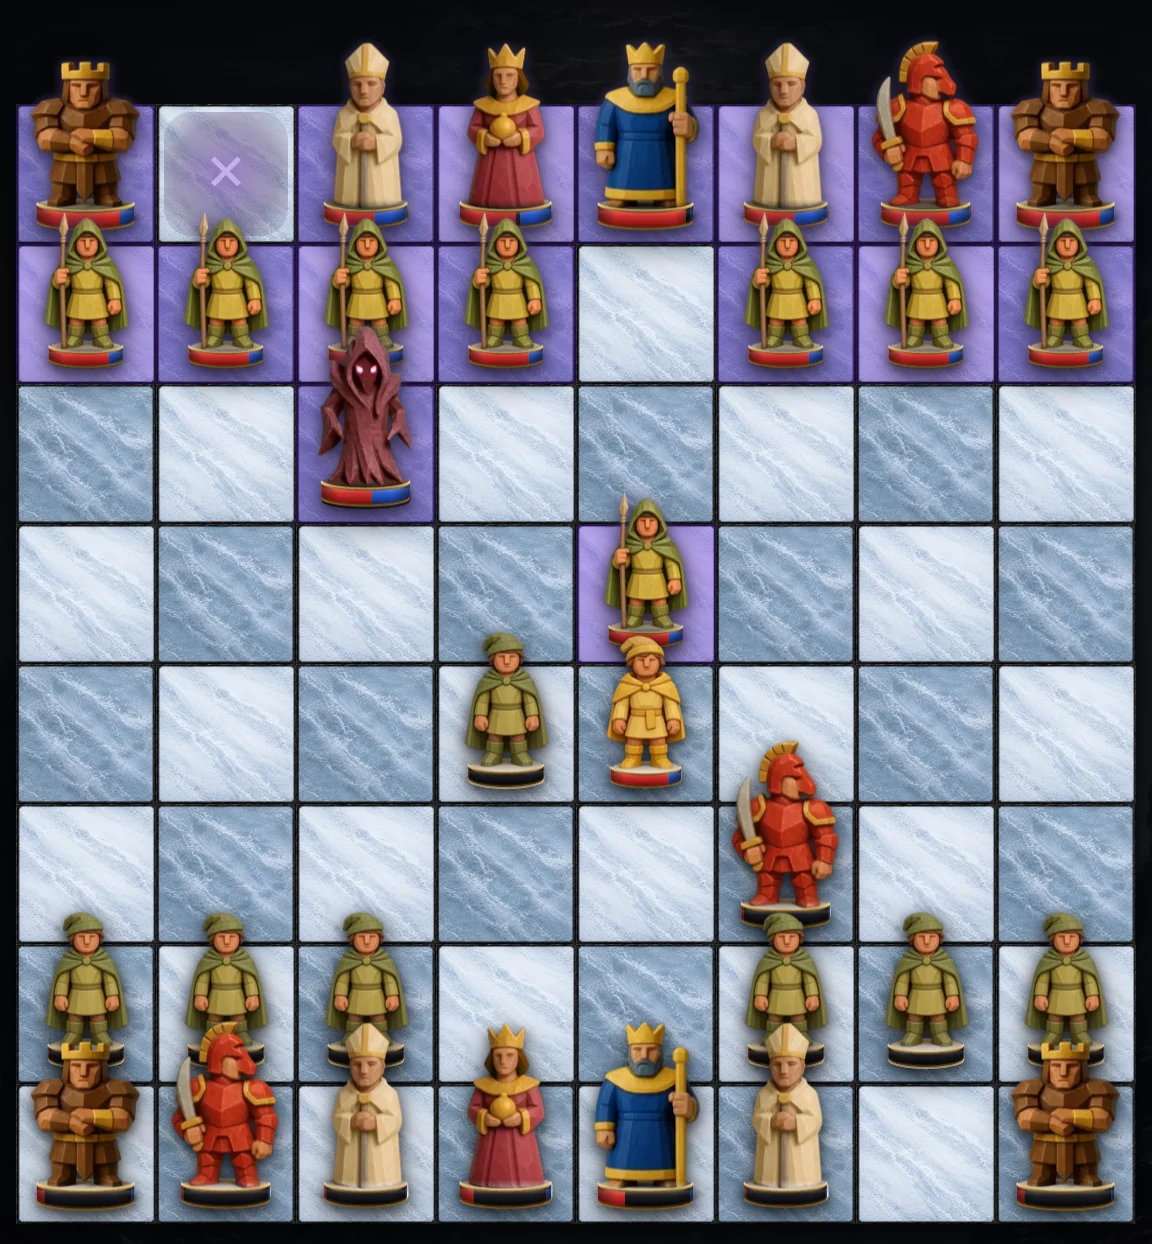
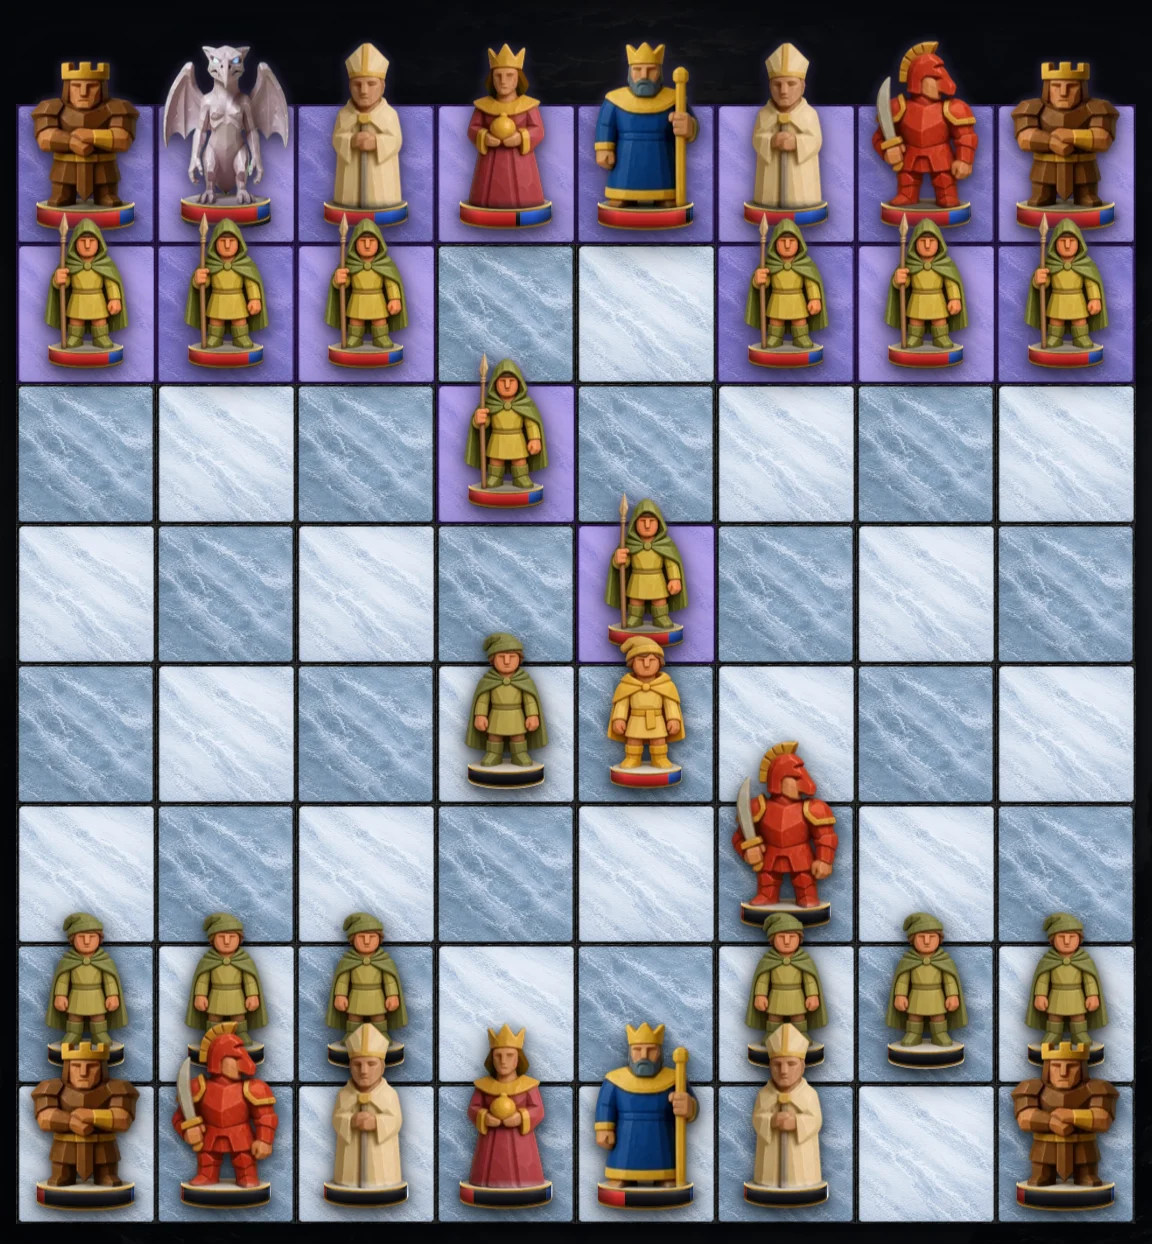
v1.91.0: Figuren-Umbau - 24 neue Figuren, 18 Buende ab Aufstellung, 14 Grossmeister mit Aura, 28 Bestien, Kampagne neu verteilt
Besitzerauftrag 6.10.: alle neuen Figuren freigegeben, in die Kapitel einbauen
(die meisten in Kapitel I und II, keine Bestie vor Kapitel III, der Drache
spaeter), saubere Zuege, Werte und Faehigkeiten, ausgeglichenes Grundspiel.

DIE ECHTEN URSACHEN, die dabei gefunden und behoben wurden:
- Die zehn Buende wirkten im Spiel nie: der Kern sucht ihre Figuren ueber
  charId, und weder das Heer noch makePiece setzten das Feld. Die Proben
  setzten es von Hand und blieben darum gruen. Jetzt traegt jede Figur ihre
  Kennung; Buende gelten je Seite und ueberleben das Pausieren.
- Gezeiten konnte fuer den Kapitaen nicht wirken (er zieht ueber sein Zugbild,
  der Durchbruch stand nur im alten slide-Weg).
- Die Seherin hatte fuer die KI weder Wert noch Familie.
- Das Zugbild las eine fehlende Reichweite als einen Schritt, der Kern als
  beliebig weit (Brandstifter, Eisenfaust).
- Meldungen und Figuren-Erfahrung kannten nur die zehn Arten der Standardreihe.
- Die Auren der Grossmeister standen in keinem Schirm.

WAS NEU IST: siehe CHANGELOG 1.91.0 und design/FIGUREN-UMBAU-2026-10-06.md -
24 Figuren, 5 Faehigkeiten (Almosen, Zins, Zehnt, Studium, Fallenkunde), 8
Buende, 13 Grossmeister und 5 Bestien, Kampagne mit 43 Figurenstationen,
Bestechpreise 800-1600, Wanderung alter Staende (figuren91).

GEMESSEN: npm test 31 Suiten / 2839 Pruefungen; Balance reif (74 Eintraege,
jede gegen jede) - nach dem Nachstellen von sechs Bestien, Gladiator und
[…]

Changed region(s): [[0.25, 0.1527, 0.5, 0.4582], [0.125, 0.0305, 0.2812, 0.2138]]

diff --git a/src/content/abilities.js b/src/content/abilities.js
@@ -83,7 +83,7 @@ export const ABILITIES = {
      Reihe und zahlen nach der Partie aus (meta/rewards.js) - das ist ihr
      Preis und ihr Reiz: Gold oder Kampfkraft, nicht beides. Der Fallensteller
      legt vor dem Gefecht eine Baerenfalle, ohne dass sie gekauft sein muss. */
-  almosen:              { id: "almosen",              icon: "◔", tag: "gold", once: false, live: true, nameDe: "Almosen",      nameEn: "Alms",          descDe: "Jeder eigene Zug bringt 1 Gold — bis zu 8 je Partie, auf Stufe II 12, auf III 16; in späteren Kapiteln mehr. Es bleibt dir auch nach einer Niederlage.", descEn: "Each move of yours earns 1 gold — up to 8 per battle, 12 at tier II, 16 at III; more in later chapters. You keep it even after a defeat." },
+  almosen:              { id: "almosen",              icon: "◔", tag: "gold", once: false, live: true, nameDe: "Almosen",      nameEn: "Alms",          descDe: "Jeder eigene Zug bringt 1 Gold — bis 8 je Partie (II: 12, III: 16), später mehr. Bleibt auch nach einer Niederlage.", descEn: "Each own move earns 1 gold — up to 8 per battle (II: 12, III: 16), more later. Kept even after a defeat." },
   zins:                 { id: "zins",                 icon: "％", tag: "gold", once: false, live: true, nameDe: "Zins",         nameEn: "Interest",      descDe: "Jeder Sieg bringt mehr Gold — 10 %, auf Stufe II 20 %, auf III 30 %.", descEn: "Every win pays more gold — 10 %, 20 % at tier II, 30 % at III." },
   zehnt:                { id: "zehnt",                icon: "⛁", tag: "gold", once: false, live: true, nameDe: "Zehnt",        nameEn: "Tithe",         descDe: "Jeder Sieg bringt festes Gold dazu — 4, auf Stufe II 8, auf III 12; in späteren Kapiteln mehr.", descEn: "Every win adds fixed gold — 4, 8 at tier II, 12 at III; more in later chapters." },
   studium:              { id: "studium",              icon: "✎", tag: "gold", once: false, live: true, nameDe: "Studium",      nameEn: "Study",         descDe: "Jede Partie bringt mehr Erfahrung — 15 %, auf Stufe II 30 %, auf III 45 %. So kommen Fähigkeitspunkte schneller.", descEn: "Every battle grants more experience — 15 %, 30 % at tier II, 45 % at III. Skill points come sooner." },

diff --git a/CLAUDE.md b/CLAUDE.md
@@ -41,8 +41,8 @@ gambitrise.com zeigt darauf).
   pruefe-navigation, pruefe-textfluss, test_layout) lesen den Chromium-Pfad aus
   `PW_CHROMIUM`; ohne die Variable gilt der Pfad des Cloud-Containers. Lokal:
   `npx playwright install chromium` und `PW_CHROMIUM=<Pfad zur chrome-Datei>`.
-- `npm test` — volle Batterie. MUSS **31 Suiten / 2720 Prüfungen** melden
-  (Stand v1.90.36; der Runner stoppt nach der ersten roten Suite, also
+- `npm test` — volle Batterie. MUSS **31 Suiten / 2839 Prüfungen** melden
+  (Stand v1.91.0; der Runner stoppt nach der ersten roten Suite, also
   Suitenzahl prüfen, nicht nur Assertions! **Zählweise seit v1.90.18
   (Audit A74): JEDE Suite der Kette meldet eine RESULT-Zeile** — alle Zeilen
   `RESULT…: N passed` summieren; test_balance meldet zwei, darum stehen im
